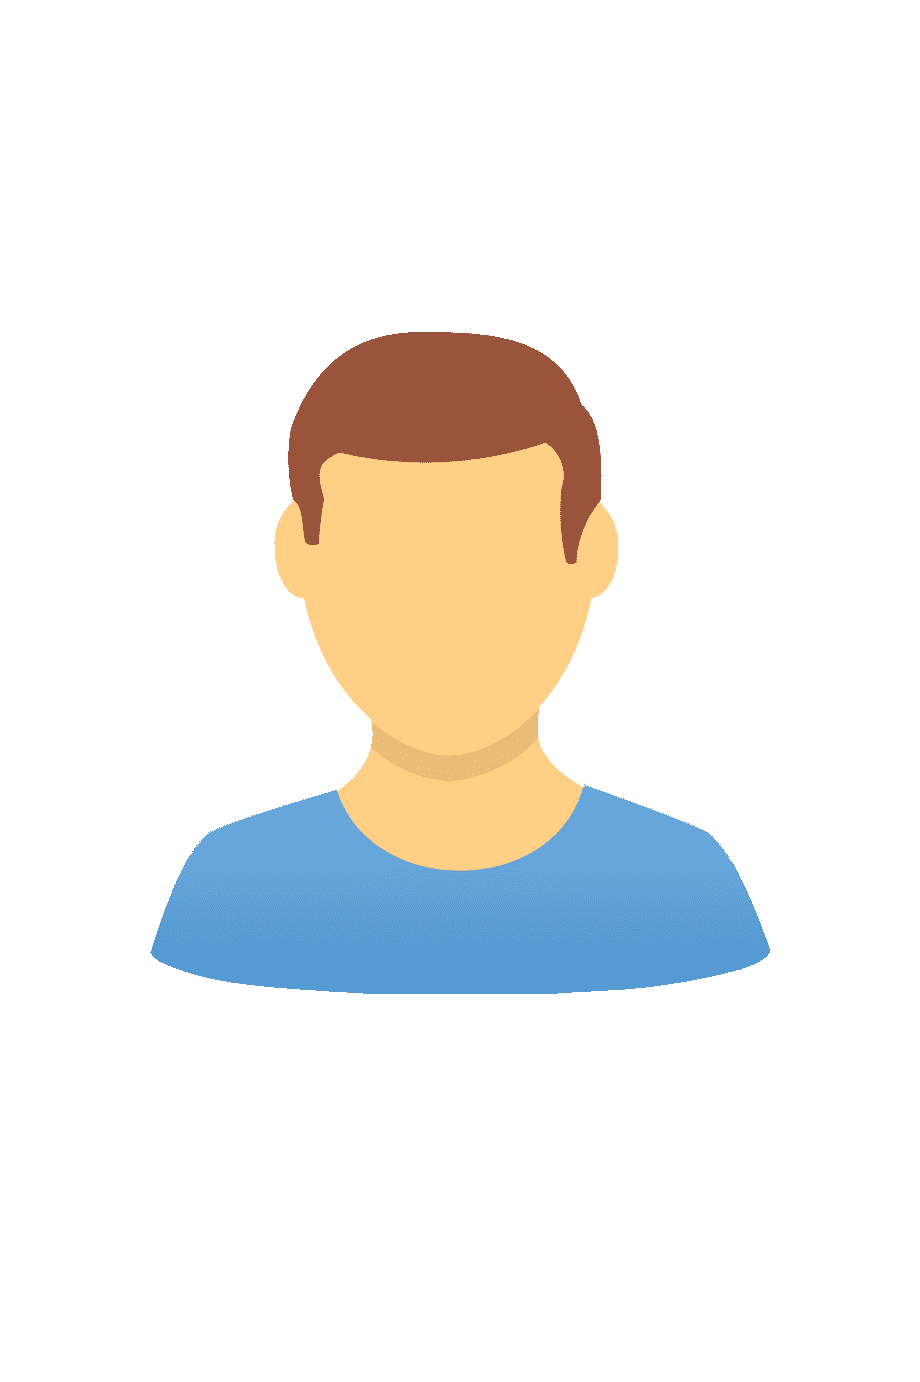
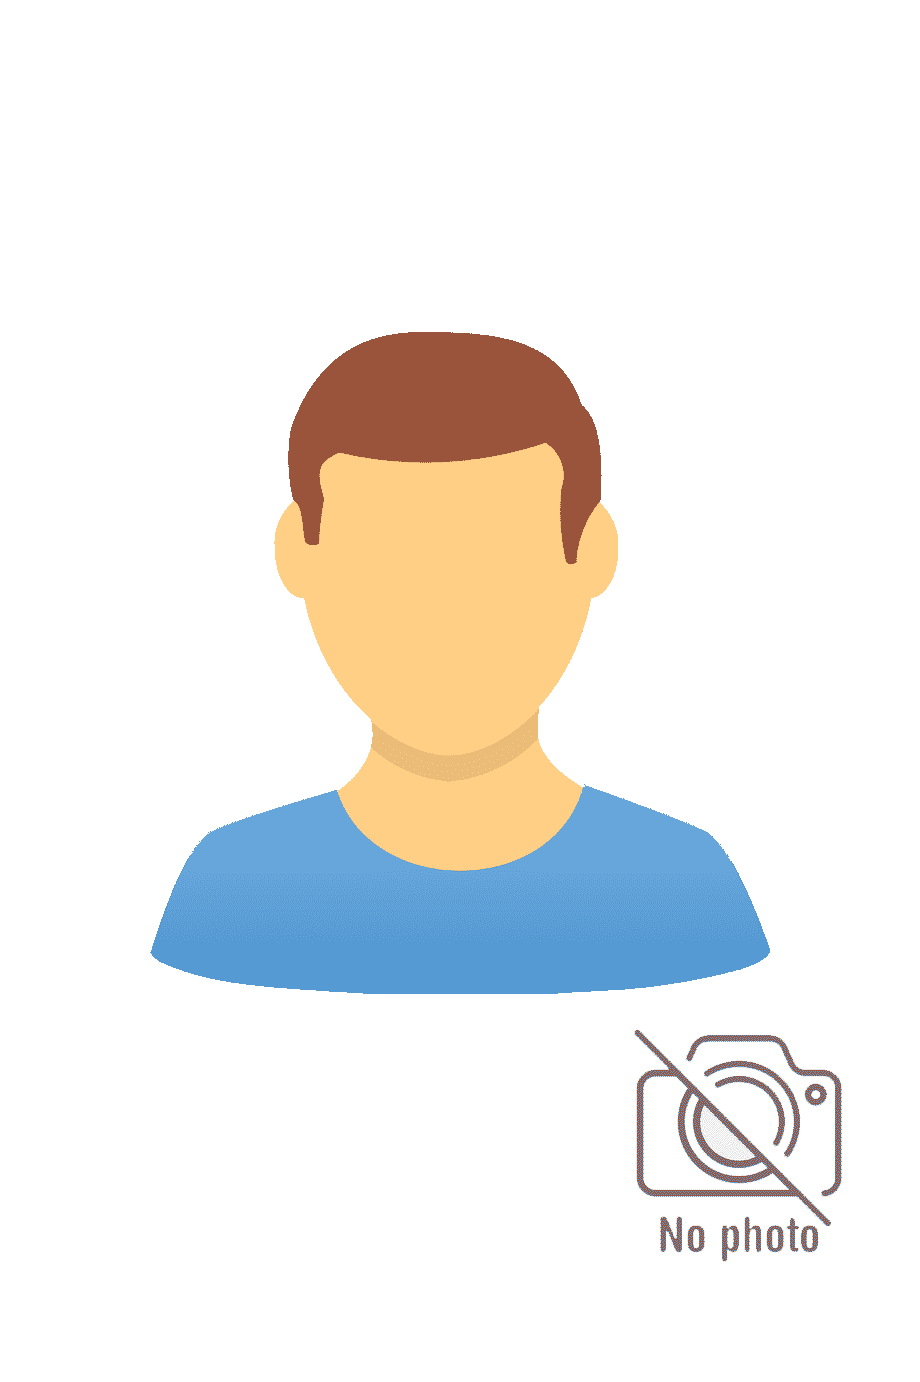
upd

Changed region(s): [[0.6696, 0.7467, 0.913, 0.9023]]

diff --git a/src/components/Cast/Cast.jsx b/src/components/Cast/Cast.jsx
@@ -1,7 +1,7 @@
 import { getMovieById } from "api/moviesAPI";
 import { useEffect, useState } from "react";
 import { useParams } from "react-router-dom";
-import notFoundPhotoProfile from "images/noFound/noAvatar.png";
+import notFoundPhotoProfile from "images/noFound/noPhoto.jpg";
 import {
   CardImegeBox,
   CastImage,

diff --git a/src/components/Cast/Cast.styled.jsx b/src/components/Cast/Cast.styled.jsx
@@ -14,9 +14,9 @@ export const CastItem = styled.li`
 export const CardImegeBox = styled.div`
   position: relative;
   border-radius: 5px;
-  background: #dcdcdc;
+  background: #fff;
   width: 100px;
-  height: 135px;
+  height: 150px;
 `;
 
 export const CastImage = styled.img`
